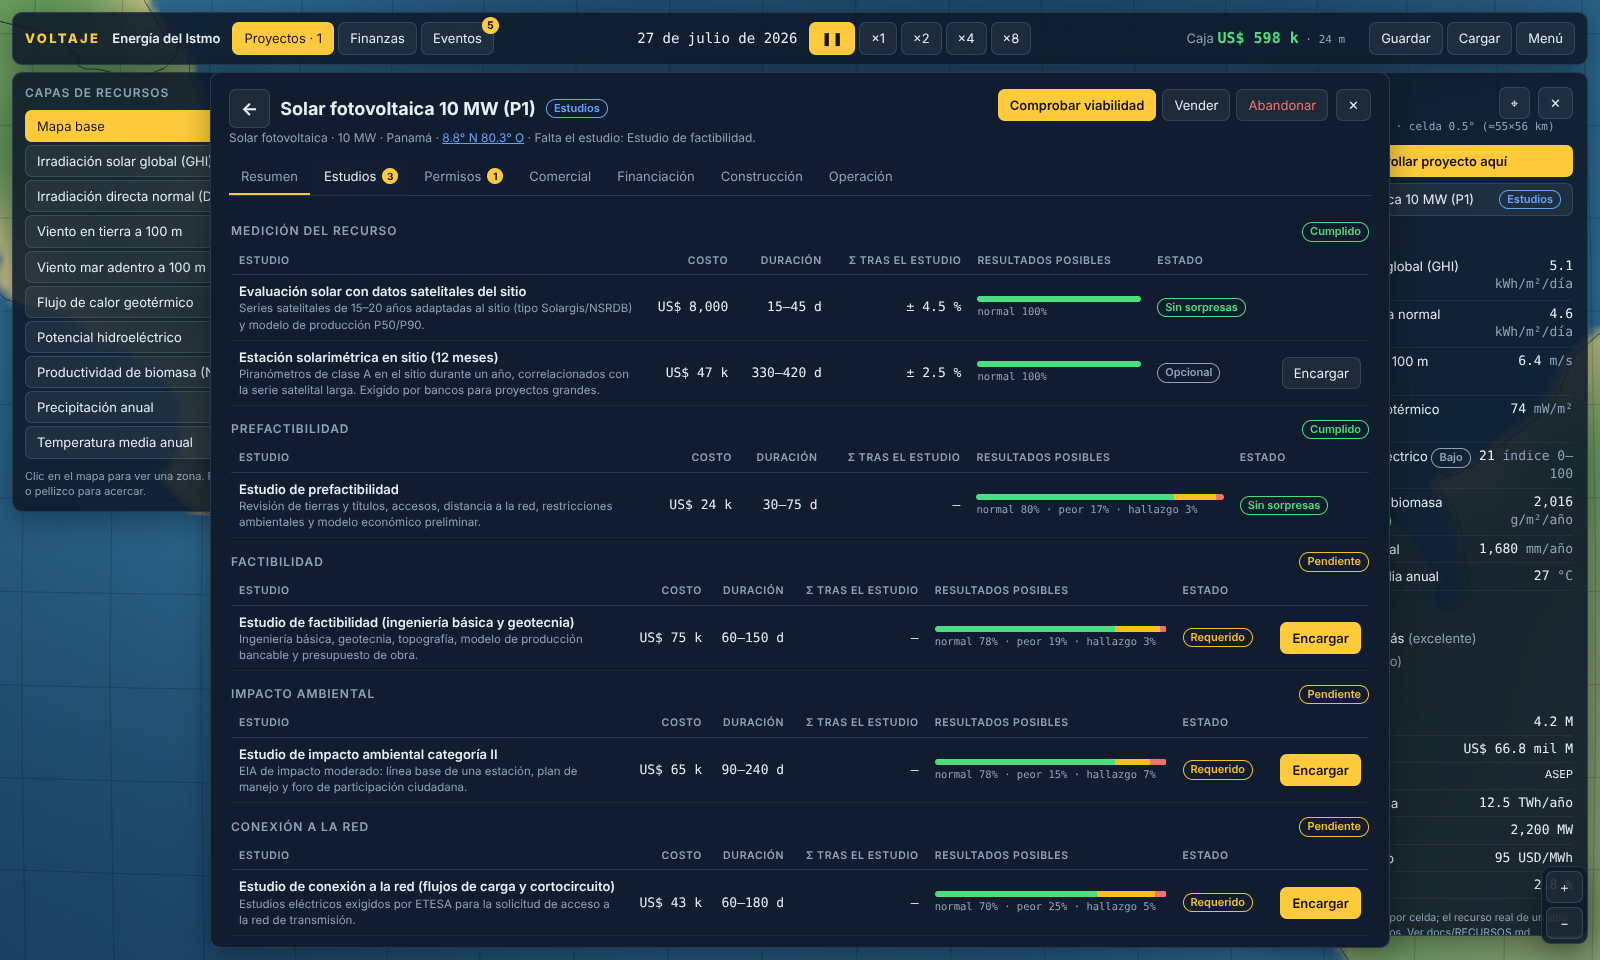
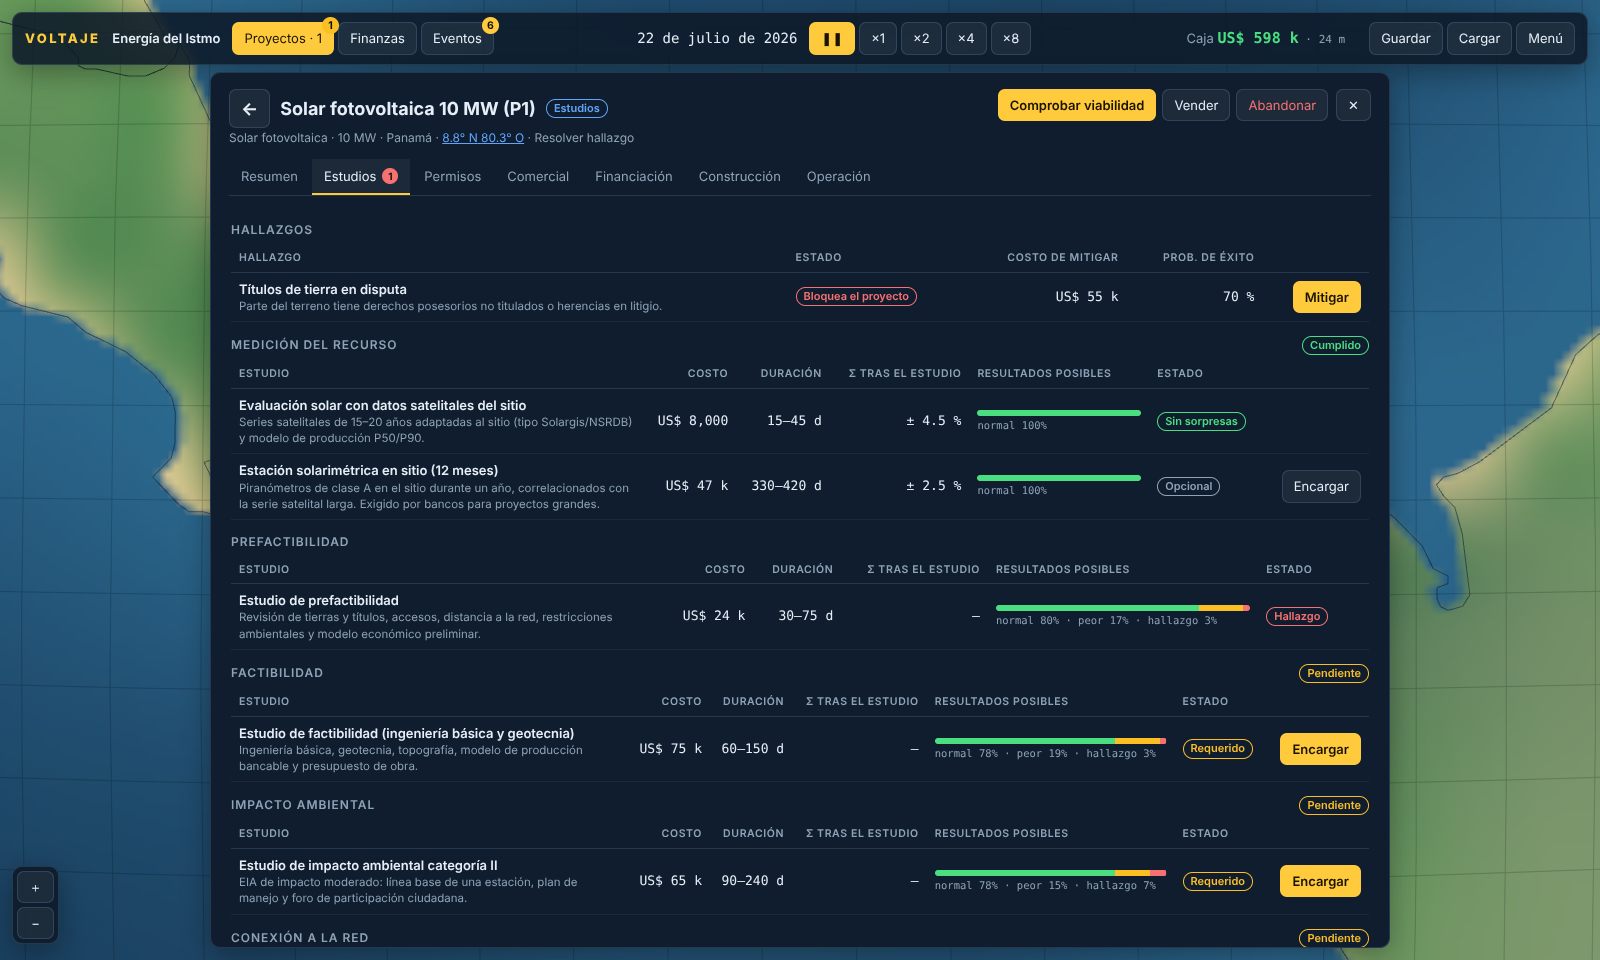
Voltaje Fase 2 (UI): ajustes visuales tras revisar capturas, docs/UI.md y CLAUDE.md
Claude-Session: https://claude.ai/code/session_013JqWNNvZubW6KT8mJjbqT7

diff --git a/energia/apps/game/src/theme/theme.css b/energia/apps/game/src/theme/theme.css
@@ -19,7 +19,7 @@
 * { box-sizing: border-box; }
 html, body, #root { margin: 0; height: 100%; overflow: hidden; }
 body { background: radial-gradient(ellipse at 50% 40%, #12263d 0%, var(--bg) 70%); color: var(--text); font: 13px/1.4 var(--font); user-select: none; -webkit-user-select: none; }
-button { font: inherit; color: inherit; cursor: pointer; border: 1px solid var(--panel-border); background: rgba(255,255,255,0.06); border-radius: 7px; padding: 6px 11px; transition: background .12s, border-color .12s; }
+button { font: inherit; color: inherit; cursor: pointer; border: 1px solid var(--panel-border); background: rgba(255,255,255,0.06); border-radius: 7px; padding: 6px 11px; }
 button:hover:not(:disabled) { background: rgba(255,255,255,0.12); }
 button:disabled { opacity: .45; cursor: default; }
 button.primary { background: var(--accent); color: var(--accent-text); border-color: transparent; font-weight: 600; }
@@ -37,7 +37,7 @@ input[type=range] { width: 100%; accent-color: var(--accent); }
 .spacer { flex: 1; }
 table.kv { width: 100%; border-collapse: collapse; }
 table.kv td { padding: 4px 0; border-bottom: 1px solid rgba(255,255,255,.05); vertical-align: top; }
-table.kv td:last-child { text-align: right; font-family: var(--mono); font-variant-numeric: tabular-nums; }
+table.kv td:last-child { white-space: nowrap; padding-left: 10px; text-align: right; font-family: var(--mono); font-variant-numeric: tabular-nums; }
 .badge { display: inline-block; padding: 1px 7px; border-radius: 99px; font-size: 11px; font-weight: 600; }
 .scroll { overflow-y: auto; }
 .scroll::-webkit-scrollbar { width: 8px; }
@@ -70,7 +70,7 @@ button.link:hover:not(:disabled) { background: none; filter: brightness(1.2); }
 .modal { padding: 20px; background: var(--panel-solid); max-height: calc(100% - 40px); overflow-y: auto; }
 
 .tabs { display: flex; gap: 2px; border-bottom: 1px solid var(--panel-border); flex-wrap: wrap; }
-.tab { border: none; border-bottom: 2px solid transparent; border-radius: 0; background: none; padding: 8px 12px; color: var(--text-dim); display: inline-flex; align-items: center; gap: 6px; }
+.tab { transition: none; border: none; border-bottom: 2px solid transparent; border-radius: 0; background: none; padding: 8px 12px; color: var(--text-dim); display: inline-flex; align-items: center; gap: 6px; }
 .tab:hover:not(:disabled) { background: rgba(255,255,255,.05); color: var(--text); }
 .tab.active { color: var(--text); border-bottom-color: var(--accent); background: none; }
 .tab-dot { min-width: 16px; height: 16px; border-radius: 8px; color: #111; font-size: 10px; font-weight: 700; line-height: 16px; text-align: center; padding: 0 4px; }

diff --git a/energia/apps/game/src/App.tsx b/energia/apps/game/src/App.tsx
@@ -34,10 +34,9 @@ function useGameEvents() {
       const tick = g?.tick ?? 0;
       const date = g ? formatDate(fromEpochDay(g.startEpochDay + tick), true) : '';
       const log: Omit<LogEntry, 'id'>[] = [];
-      const name = (id: string) => g?.projects.find((p) => p.id === id)?.name ?? id;
       for (const e of events) {
         if ('projectId' in e) {
-          log.push({ tick, date, text: `${name(e.projectId)}: ${e.text}`, severity: e.severity, projectId: e.projectId });
+          log.push({ tick, date, text: e.text, severity: e.severity, projectId: e.projectId });
           if (e.severity !== 'info' || TOAST_INFO.has(e.type)) ui.toast(e.text, KIND[e.severity], e.projectId);
           if (e.type === 'projectCreated') ui.openProject(e.projectId);
           continue;
@@ -111,6 +110,8 @@ export function App() {
   const [world, setWorld] = useState<World | null>(null);
   const [error, setError] = useState('');
   const screen = useUi((s) => s.screen);
+  // con una ventana grande abierta se ocultan los paneles laterales (el globo sigue visible detrás)
+  const win = useUi((s) => s.window);
   useGameEvents();
   useKeyboard();
 
@@ -128,8 +129,8 @@ export function App() {
       {screen === 'game' && (
         <>
           <TopBar />
-          <LayerPanel />
-          <Inspector world={world} />
+          {!win && <LayerPanel />}
+          {!win && <Inspector world={world} />}
           <ZoomButtons />
           <Windows />
           <DevelopDialog />
@@ -144,7 +145,7 @@ export function App() {
 
 function ZoomButtons() {
   return (
-    <div className="panel" style={{ position: 'absolute', bottom: 16, right: 12, display: 'grid', padding: 4, gap: 4 }}>
+    <div className="panel" style={{ position: 'absolute', bottom: 16, left: 12, display: 'grid', padding: 4, gap: 4 }}>
       <button onClick={() => getGlobe()?.zoomBy(0.8)} title="Acercar (+)">＋</button>
       <button onClick={() => getGlobe()?.zoomBy(1.25)} title="Alejar (−)">−</button>
     </div>

diff --git a/energia/apps/game/src/ui/project/SummaryTab.tsx b/energia/apps/game/src/ui/project/SummaryTab.tsx
@@ -156,7 +156,7 @@ export function SummaryTab({ d }: { d: ProjectDetail }) {
             <tr><td>Recurso P50</td><td>{fmtNum(d.resource.p50, 2)} <span className="dim">{layer?.unidad}</span></td></tr>
             <tr><td>Recurso P90</td><td>{fmtNum(d.resource.p90, 2)} <span className="dim">{layer?.unidad}</span></td></tr>
             <tr><td>Incertidumbre</td><td>± {fmtPct(d.resource.sigma)}</td></tr>
-            <tr><td>Fuente</td><td style={{ fontFamily: 'inherit' }}>{d.resource.source === 'celda' ? 'Valor de la celda' : d.studies.find((s) => s.id === d.resource.source)?.nombre ?? d.resource.source}</td></tr>
+            <tr><td>Fuente</td><td style={{ fontFamily: 'inherit', whiteSpace: 'normal' }}>{d.resource.source === 'celda' ? 'Valor de la celda' : d.studies.find((s) => s.id === d.resource.source)?.nombre ?? d.resource.source}</td></tr>
             <tr><td>FC P50 / P90</td><td>{fmtPct(d.resource.fcP50)} / {fmtPct(d.resource.fcP90)}</td></tr>
             <tr><td>Energía P50</td><td>{fmtNum(d.resource.energyP50MwhYear / 1000, 1)} <span className="dim">GWh/año</span></td></tr>
             <tr><td>Energía P90</td><td>{fmtNum(d.resource.energyP90MwhYear / 1000, 1)} <span className="dim">GWh/año</span></td></tr>

diff --git a/energia/apps/game/src/ui/project/CommercialTab.tsx b/energia/apps/game/src/ui/project/CommercialTab.tsx
@@ -21,7 +21,7 @@ export function CommercialTab({ d }: { d: ProjectDetail }) {
       {ppa && (
         <Section title="Contrato actual">
           <table className="kv" style={{ maxWidth: 560 }}><tbody>
-            <tr><td>Canal</td><td style={{ fontFamily: 'inherit' }}>{ppa.channelName}</td></tr>
+            <tr><td>Canal</td><td style={{ fontFamily: 'inherit', whiteSpace: 'normal' }}>{ppa.channelName}</td></tr>
             <tr><td>Estado</td><td>{ppa.status === 'firmado' ? <Pill tone="good">Firmado</Pill> : ppa.status === 'en_proceso' ? <Pill tone="info">Resultado el {g ? fmtDate(dateOfTick(g, ppa.endTick)) : ''}</Pill> : <Pill tone="bad">No adjudicado</Pill>}</td></tr>
             {ppa.status === 'firmado' && g && <>
               <tr><td>Precio inicial</td><td>{fmtNum(ppa.priceUsdMwh, 2)} US$/MWh</td></tr>

diff --git a/energia/apps/game/src/ui/project/FinancingTab.tsx b/energia/apps/game/src/ui/project/FinancingTab.tsx
@@ -41,7 +41,7 @@ export function FinancingTab({ d }: { d: ProjectDetail }) {
         </div>
         <Section title="Condiciones">
           <table className="kv" style={{ maxWidth: 620 }}><tbody>
-            <tr><td>Prestamista</td><td style={{ fontFamily: 'inherit' }}>{ld?.nombre ?? 'Sin deuda (solo capital)'}</td></tr>
+            <tr><td>Prestamista</td><td style={{ fontFamily: 'inherit', whiteSpace: 'normal' }}>{ld?.nombre ?? 'Sin deuda (solo capital)'}</td></tr>
             <tr><td>Deuda pedida</td><td>{fmtPct(f.requestedDebtFraction, 0)}</td></tr>
             <tr><td>Comisiones y asesores</td><td>{fmtMoney(f.feesUsd)}</td></tr>
             <tr><td>Prima de desarrollo del socio</td><td>{fmtMoney(f.partnerPremiumUsd)}</td></tr>

diff --git a/energia/apps/game/src/ui/session.ts b/energia/apps/game/src/ui/session.ts
@@ -10,7 +10,7 @@ import { loadWorld } from '../world/loadWorld';
 function rebuildLog() {
   const g = sim.state;
   const entries: Omit<LogEntry, 'id'>[] = [];
-  for (const p of g?.projects ?? []) for (const t of p.timeline) entries.push({ tick: t.tick, date: formatDate(fromEpochDay(g!.startEpochDay + t.tick), true), text: `${p.name}: ${t.text}`, severity: t.kind, projectId: p.id });
+  for (const p of g?.projects ?? []) for (const t of p.timeline) entries.push({ tick: t.tick, date: formatDate(fromEpochDay(g!.startEpochDay + t.tick), true), text: t.text, severity: t.kind, projectId: p.id });
   entries.sort((a, b) => a.tick - b.tick);
   ui.set({ log: [], unread: 0 });
   ui.log(entries.slice(-LOG_MAX));

diff --git a/energia/apps/game/src/globe/siteVisual.ts b/energia/apps/game/src/globe/siteVisual.ts
@@ -46,7 +46,7 @@ export const STAGE_COLORS: Record<ProjectStage, string> = {
   vendido: '#64748b', abandonado: '#64748b', desmantelado: '#64748b',
 };
 
-const SCALE = 0.011;
+const SCALE = 0.008;
 const RING_IN = 0.66, RING_OUT = 0.76;
 
 function toPlantState(v: SiteView) {

diff --git a/energia/docs/UI.md b/energia/docs/UI.md
@@ -1,0 +1,49 @@
+# UI de la Fase 2 — pantallas y flujos
+
+Todo en `apps/game/src`. Estilo de juego de gestión: ventanas grandes sobre el globo, tablas, KPI y gráficas (ECharts modular, `ui/Chart.tsx`). Colores y medidas en `theme/theme.css` (sección «Fase 2»); color por etapa en `globe/siteVisual.ts` (`STAGE_COLORS`, compartido con la UI).
+
+## Arquitectura de datos
+- El `GameState` vive en el worker (`worker/sim.worker.ts`). Al arrancar, el cliente envía `init` con las URL de `grid.json`/`grid.bin`; el worker carga la `ResourceGrid` y la pone en `ctx.grid`. Los comandos esperan hasta que la grilla está lista.
+- Con cada instantánea el worker envía también las **vistas** (`Views`): `selectProjects`, `selectCompanyFinancials` y `selectProjectDetail` del proyecto enfocado (`sim.focus(id)`, lo hace `ui.openProject`). Instantáneas limitadas a una cada 100 ms mientras corre el tiempo.
+- Peticiones bajo demanda (request/response): `preview` (vista previa de sitio), `viability` (Monte Carlo, 500 corridas), `finPreview` (efecto de una estructura de deuda con `projectEconomics`).
+- La vista previa del sitio usa `previewSite` + una **copia** del estado (`structuredClone`) donde se aplica `createProject` para obtener TIR, VAN, LCOE, desarrollo por venir y probabilidad de éxito con los mismos selectores. La partida no se toca.
+- `ui/store.ts`: estado de UI (`window`, `projectId`, `projectTab`, `developAt`, registro de eventos `log`, `unread`, `toasts`). Nada de esto se guarda; el registro se reconstruye al cargar desde las líneas de tiempo de los proyectos.
+
+## Pantallas
+| Pantalla | Archivo | Contenido |
+|---|---|---|
+| Barra superior | `ui/TopBar.tsx` | Proyectos (con nº de alertas), Finanzas, Eventos (no leídos), fecha, velocidades, caja + meses de caja (clic → finanzas), guardar/cargar/menú |
+| Ficha de celda | `ui/Inspector.tsx` | botón **Desarrollar proyecto aquí** (solo tierra y país con mercado; si no, motivo), proyectos de la celda, recursos, país |
+| Desarrollar | `ui/DevelopDialog.tsx` | tecnología (solar FV / eólica), MW en el rango de `escala_mw`, nombre, recurso P50/P90/σ, FC, energía, terreno, CAPEX, LCOE, TIR/VAN del capital, desarrollo por venir, prob. de llegar a obra; costo de prospección y caja |
+| Proyectos | `ui/ProjectsPanel.tsx` | KPI de cartera, filtros por etapa, tabla (etapa, avance del ciclo, próximo paso, FC P50, TIR, VAN, alertas). Clic → detalle y la cámara vuela al sitio |
+| Detalle | `ui/project/*` | ver abajo |
+| Finanzas | `ui/FinancePanel.tsx` | KPI (caja, patrimonio, deuda, ingresos/EBITDA 12 m, meses de caja, riesgo de quiebra); Resumen (caja y deuda, flujo mensual), P&G y Flujo de caja (12 meses + mes en curso), Balance, Deuda y riesgo |
+| Eventos | `ui/EventLog.tsx` | registro filtrable por severidad y proyecto; clic abre el proyecto |
+| Notificaciones | `ui/Toasts.tsx` | eventos `bueno`/`malo` y algunos informativos; clic abre el proyecto |
+| Quiebra | `ui/GameOver.tsx` | resumen final; cargar partida o volver al menú |
+
+### Detalle de proyecto (`ui/project/ProjectWindow.tsx`)
+Cabecera: nombre, etapa, tecnología, MW, coordenadas (clic → vuela al sitio), próximo paso. Acciones: **Comprobar viabilidad**, Vender (confirmación con el valor estimado), Abandonar (muestra lo que se castiga) o Desmantelar si opera. Las confirmaciones son en línea (segundo clic), sin diálogos del navegador.
+
+| Pestaña | Contenido |
+|---|---|
+| Resumen | KPI (VAN y TIR del capital, LCOE, DSCR, precio supuesto, prob. de éxito, valor de venta); **Gantt** con lo hecho, en curso y previsto (estudios pendientes por grupo, permisos en secuencia parcialmente paralela, cierre financiero, obra y puesta en marcha con duraciones base) y línea de hoy; costos incurridos y por venir; recurso y producción; inversión; historial; riesgos |
+| Estudios | hallazgos con mitigación (costo, prob.); estudios por grupo: costo, duración, σ tras el estudio, barra de resultados posibles, estado, bloqueos, Encargar |
+| Permisos | grafo por niveles (columnas según `requiere.permisos`), requisitos, costo, plazo, prob. de aprobación, pedidos de información, bloqueos, Solicitar / Volver a solicitar |
+| Comercial | contrato actual (precio, plazo, COD límite, multa) y canales PPA con disponibilidad |
+| Financiación | prestamistas (elegibilidad y motivo) o solo capital; deslizadores de deuda y socio; vista previa: deuda que daría el banco (avisa si la limita el DSCR), tu aporte, prima del socio, TIR/VAN/DSCR; luego condiciones y deuda vigente |
+| Construcción | proveedores de equipos y EPC comparados (precio, calidad, confiabilidad, entrega/plazo, sobrecosto); iniciar obra con bloqueos; avance, hitos, equipos, atrasos y sobrecostos |
+| Operación | FC real 12 meses vs P50, producción mensual vs esperada, ingresos/costos/disponibilidad, política de mantenimiento, fallas |
+
+La tarjeta de viabilidad muestra probabilidad de llegar a operación, meses P50/P90, costo por gastar P50/P90, TIR P50/P10, VAN esperado y causas de fracaso; avisa si se calculó en otra fecha.
+
+## Sitios en el globo
+- `globe/sites.ts` (`SiteLayer`): un modelo por proyecto (vendidos y desmantelados se quitan), luces de los modelos (`createModelLights`, la direccional sigue a la cámara), LOD por distancia, `animate(dt)` por cuadro y clic por proximidad en pantalla (22 px) → abre el proyecto antes de seleccionar la celda.
+- `globe/siteVisual.ts` es el **único** adaptador a `src/models`: `createSiteVisual({kind, capacityMw, stage, progress, seed})`. Etapas: identificado → `prospeccion`; estudios/permisos/cierre → `estudios`; construcción/puesta en marcha → `construccion` (progress = `buildProgress`; 1 en puesta en marcha); operación → `operacion` o `falla` si hay salidas forzadas; abandonado → `abandonado`. Añade un anillo de color por etapa con el avance de obra. Escala 0,008; de lejos (LOD 0) crece hasta ×2,4.
+- `Globe.ts` expone `scene`, `camera`, `frameHooks`, `onPickScreen` y `toScreen()`.
+
+## Atajos
+Espacio pausa/reanuda · 1–5 velocidades · P proyectos · F finanzas · E eventos · Esc cierra (diálogo → desarrollar → ventana → selección) · ⌘/Ctrl+S guardar · +/− zoom.
+
+## Prueba de humo
+`npm run build && npm run screens` (`tools/screenshots.mjs`): Fase 1 (menú, capas, tiempo) y Fase 2 en 1600×960: nueva partida → celda de Coclé (8,6° N 80,3° O) → solar de 10 MW → estudios satelital y de prefactibilidad → ×8 ≈ 6 meses → clic en el marcador del globo → todas las pestañas → proveedores → viabilidad → proyectos, finanzas, P&G, eventos → guardar, recargar, continuar (verifica fecha y proyecto). Repite lo clave en 1280×800. Falla con errores de consola. Expone `window.__voltaje` (`flyTo`, `siteScreenPos`) solo para esta prueba.

diff --git a/energia/CLAUDE.md b/energia/CLAUDE.md
@@ -5,7 +5,7 @@ Juego independiente de Dinastía (el juego Godot de la raíz del repo). Vive en 
 ## Estado actual
 - **Fase 1 completa**: globo 3D, capas de recursos, tiempo con velocidades, guardado/carga, menú principal, CI para Mac.
 - **Fase 2 (motor) lista**: núcleo económico, Panamá (permisos, PPA, bancos, impuestos), solar FV y eólica con ciclo completo de proyecto, estados financieros, quiebra, Monte Carlo. Detalle en `docs/MOTOR_FASE2.md`.
-- Siguiente: UI de la Fase 2 (paneles de proyecto y empresa, modelos 3D por avance) usando los selectores del motor.
+- **Fase 2 (UI) lista**: desarrollar en un sitio, panel y detalle de proyectos (Gantt, estudios, permisos, PPA, financiación, construcción, operación, viabilidad), finanzas de la empresa, registro de eventos, quiebra, sitios 3D en el globo. Detalle en `docs/UI.md`.
 
 ## Comandos (desde `energia/`)
 | Comando | Qué hace |
@@ -32,9 +32,9 @@ packages/sim    motor puro TS: sin DOM, sin Math.random/Date.now. Determinista.
 packages/data   YAML editables + esquemas Zod (game, layers, countries/*, technologies/*, studies, suppliers, resources/anclas)
   generated/    grid.bin, grid.json, world.json (salida de tools/build-resources.ts; se sirven como estáticos)
 apps/game       Vite + React + Three.js
-  worker/       el GameState vive solo en un Web Worker; la UI recibe instantáneas y envía comandos
-  globe/        Globe.ts (shader propio: mapa base, capa, máscara de costa, cuadrícula, selección, facetas)
-  ui/           paneles React; store.ts = estado de UI (no de juego)
+  worker/       el GameState vive solo en un Web Worker (carga la grilla y calcula las vistas de los selectores); la UI recibe instantáneas + vistas y envía comandos
+  globe/        Globe.ts (shader propio: mapa base, capa, máscara de costa, cuadrícula, selección, facetas); sites.ts + siteVisual.ts (adaptador único a models/)
+  ui/           paneles React; store.ts = estado de UI (no de juego); project/ = pestañas del detalle de proyecto
   storage/      partidas en IndexedDB + exportar/importar .json
   theme/        theme.ts (colores del globo) y theme.css (UI): el estilo se cambia aquí
   src-tauri/    envoltorio nativo de Mac
@@ -69,9 +69,15 @@ Reglas:
 | 2026-11-04 | Contabilidad consolidada (impuesto a nivel empresa, mensual, con arrastre de pérdidas); estudios y permisos se capitalizan y se castigan si se abandona. |
 | 2026-11-04 | Quiebra: 3 meses de caja negativa sin crédito de emergencia (hasta 50 % del valor neto de las plantas). |
 | 2026-11-04 | SAVE_VERSION 2 con migración desde v1 (las partidas de la Fase 1 cargan sin proyectos). |
+| 2026-11-04 | UI Fase 2: los selectores corren en el worker (tienen datos + grilla) y viajan con cada instantánea; detalle solo del proyecto enfocado; viabilidad y vistas previas bajo pedido. |
+| 2026-11-04 | Vista previa de sitio = `previewSite` + `createProject` sobre una copia del estado para obtener TIR/VAN/LCOE con los mismos selectores (sin tocar la partida). |
+| 2026-11-04 | Registro de eventos solo en la UI; al cargar se reconstruye con las líneas de tiempo de los proyectos (no se cambia el formato de guardado). |
+| 2026-11-04 | Sitios del globo vía `globe/siteVisual.ts` sobre `src/models` (escala 0,008, anillo de avance por etapa, clic por proximidad en pantalla). |
 
 ## Pendientes conocidos
-- El worker del juego aún no carga la grilla: hasta que la UI la pase en el `SimContext`, `createProject` se rechaza en el juego.
+- Operación: la producción esperada mensual se dibuja plana (P50/12 por días); el motor no expone el perfil estacional por mes.
+- Los eventos no llevan `tick`: el registro les pone la fecha de la última instantánea (a ×8 puede diferir unos días).
+- Falta una captura de una planta en operación (requiere años de juego); la pestaña Operación solo se probó vacía.
 - Permisos, plazos y probabilidades de Panamá son aproximados (marcados `supuesto`); calibrar con desarrolladores locales si se consigue información.
 - Reemplazar sol y viento por NASA POWER cuando haya red (script por escribir).
 - El `.dmg` solo se ha configurado, no se ha compilado aquí (este entorno es Linux). Revisar el primer run de GitHub Actions.
